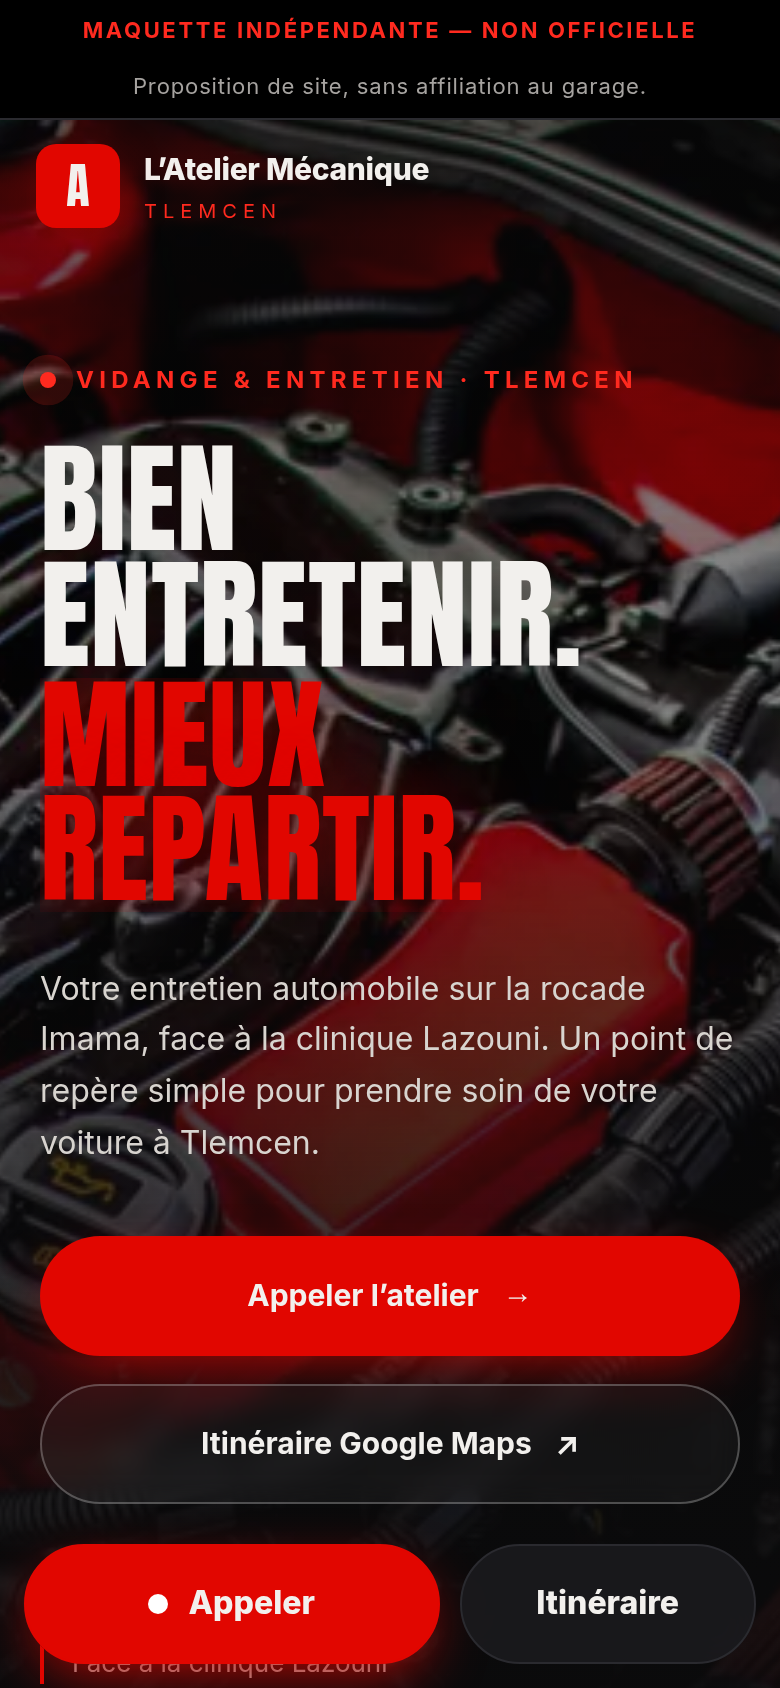
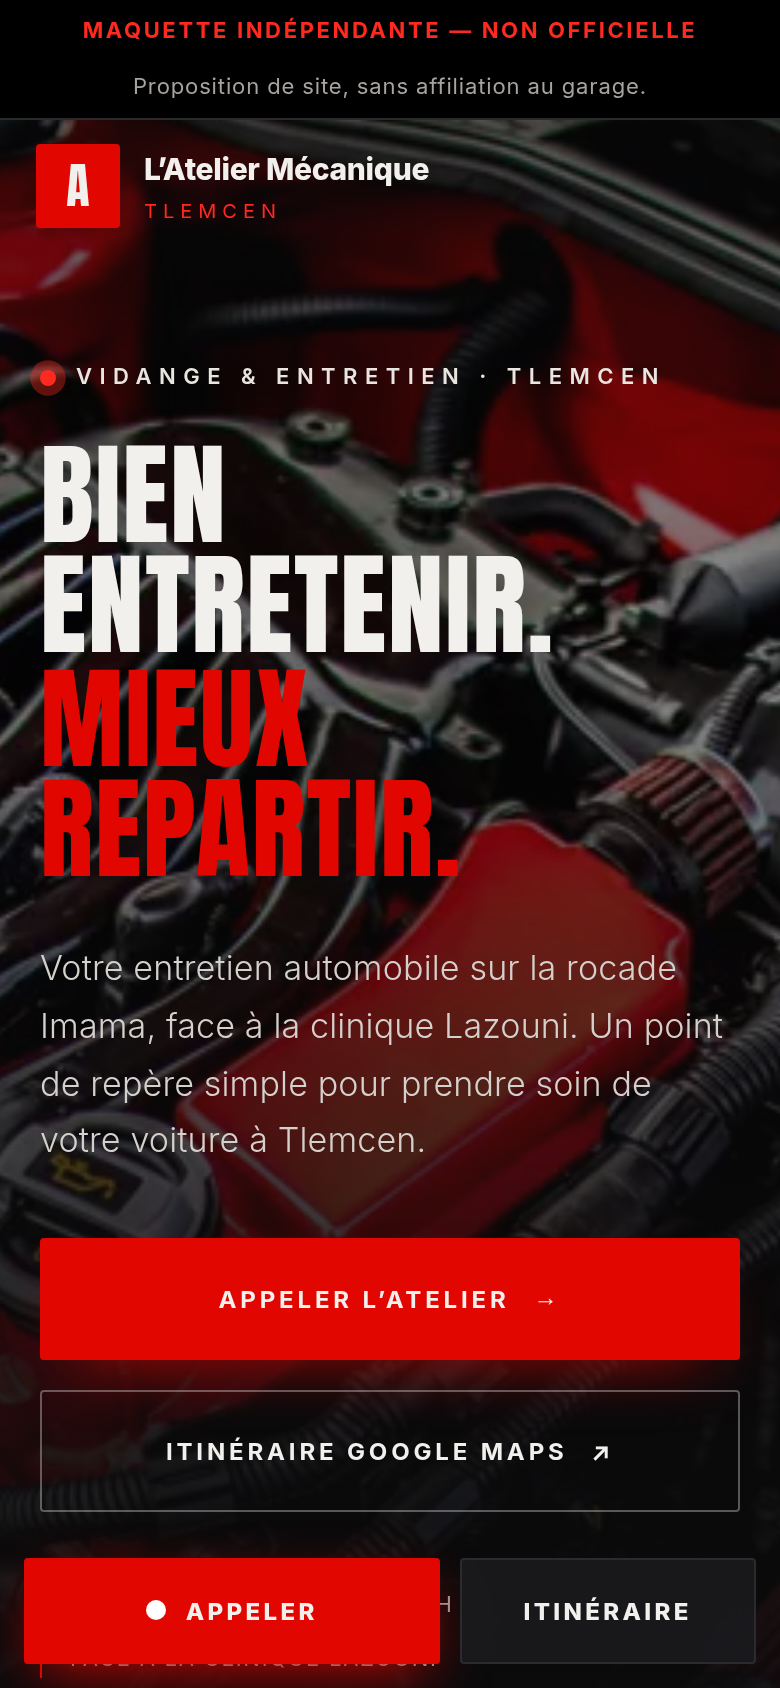
Finition haut de gamme : boutons sobres, typographie affinée, espacements généreux

diff --git a/style.css b/style.css
@@ -208,3 +208,49 @@ nav a:hover::after,.link-line:hover::after{transform:scaleX(1);transform-origin:
  .service-icon,.steps-line path{stroke-dashoffset:0}.draw::after{transform:scaleX(1)}
 }
 body.paused *,body.paused *::before,body.paused *::after{animation-play-state:paused!important}
+
+/* ===== Finition haut de gamme ===== */
+body{font-size:16px;letter-spacing:.005em}
+h1,h2{letter-spacing:.012em;line-height:.98}
+h2{font-size:clamp(38px,5vw,72px)}
+.section{padding-block:clamp(110px,14vw,190px)}
+.section-head{margin-bottom:clamp(56px,7vw,90px)}
+.kicker{font-size:11px;font-weight:600;letter-spacing:.34em;color:#d8d4cf}.kicker::before{width:40px;height:1px;background:var(--red)}
+.hero .kicker{color:#e9e5e0}
+.btn{border-radius:2px;text-transform:uppercase;letter-spacing:.16em;font-size:12px;font-weight:700;padding:20px 30px}
+.btn-sm{padding:13px 20px;font-size:11px}
+.btn-red{box-shadow:0 14px 34px -18px rgba(225,6,0,.9)}
+.btn-ghost{border-color:rgba(255,255,255,.32);background:transparent;backdrop-filter:none}
+.hero-title{font-size:clamp(56px,10vw,150px);letter-spacing:.015em}
+.hero-title .line:last-child>span{text-shadow:none;color:var(--red)}
+.lead{font-weight:300;font-size:clamp(17px,1.5vw,20px);line-height:1.7;color:#d4d0cb}
+.hero-meta{letter-spacing:.08em;text-transform:uppercase;font-size:11px}
+.hero-meta span{border-left:1px solid var(--red)}
+.hero-grid{opacity:.5}
+.marquee{background:var(--bg);transform:none;margin:0;border-block:1px solid var(--line);box-shadow:none}
+.marquee-track{font-size:clamp(26px,3vw,40px);padding:22px 0;gap:46px;color:transparent;-webkit-text-stroke:1px rgba(242,240,237,.35);animation-duration:40s}
+.marquee-track i{color:var(--red);-webkit-text-stroke:0;font-size:10px}
+.stats{border-radius:0;border-inline:0;margin-top:0;max-width:none;background:var(--line);padding:0}
+.stat{padding:clamp(40px,5vw,64px) clamp(24px,4vw,56px);flex-direction:column;align-items:flex-start;gap:14px}
+.stat b{font-size:clamp(72px,8vw,120px);text-shadow:none}
+.stat span{font-size:11px;letter-spacing:.22em;font-weight:500}
+.stats-note{padding:14px clamp(24px,4vw,56px);font-size:11px;letter-spacing:.04em}
+.service-card,.step,.card,.quote,.atelier-photo,.gallery figure{border-radius:4px}
+.service-card{min-height:520px;padding:44px}
+.service-card h3{letter-spacing:.02em}
+.service-number{-webkit-text-stroke:1px rgba(255,255,255,.45)}
+.service-card::after{height:2px}
+.draw::after{width:72px;height:2px}
+.step{padding:38px;background:transparent}
+.step span{border-width:1px;border-radius:0;background:var(--bg)}
+.quote{background:var(--bg2)}
+.quote input,.quote select,.quote textarea{border-radius:2px;background:transparent;border:0;border-bottom:1px solid #3a3a40;padding:14px 2px}
+.quote input:focus,.quote select:focus,.quote textarea:focus{box-shadow:none;border-color:var(--red)}
+.quote select option{background:var(--bg2)}
+.quote label{font-size:11px;letter-spacing:.2em;text-transform:uppercase;font-weight:600;color:var(--mut)}
+.card{padding:30px 32px;background:transparent}
+.brand-icon{border-radius:2px;box-shadow:none}
+.photo-tag,.atelier-photo figcaption{border-radius:0;letter-spacing:.12em;text-transform:uppercase;font-size:9px}
+.faq summary{font-weight:500}
+.band-text p{-webkit-text-stroke:1px rgba(255,255,255,.75);letter-spacing:.02em}
+@media(max-width:760px){.mobile-bar a{border-radius:2px;text-transform:uppercase;letter-spacing:.14em;font-size:12px}.service-card{min-height:420px;padding:28px}.stat{padding:34px 24px}}
